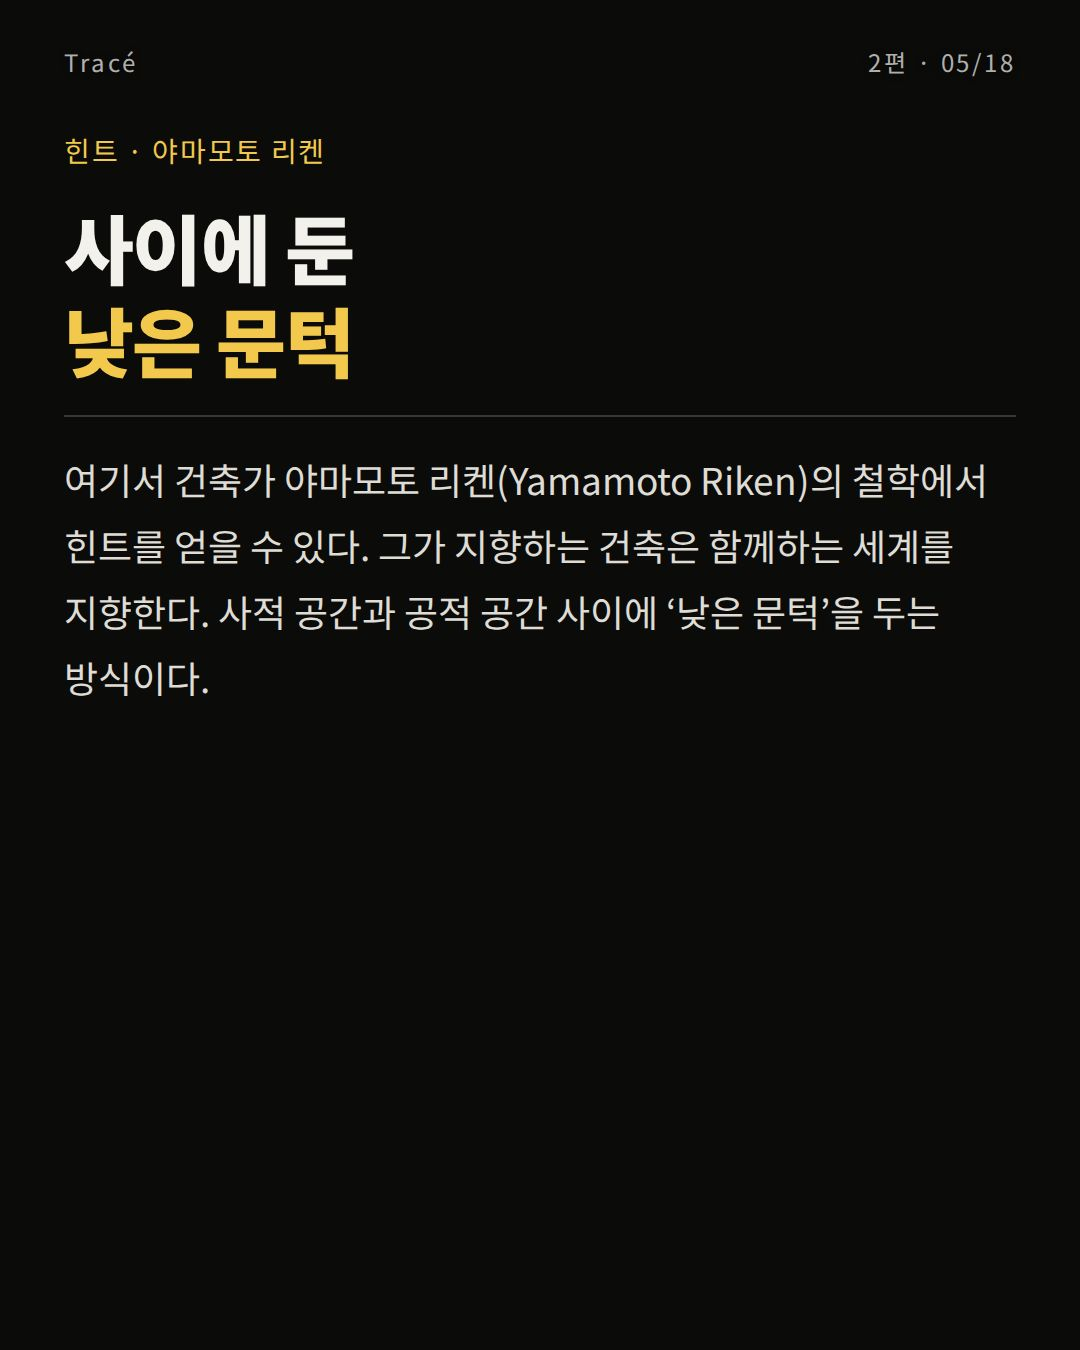
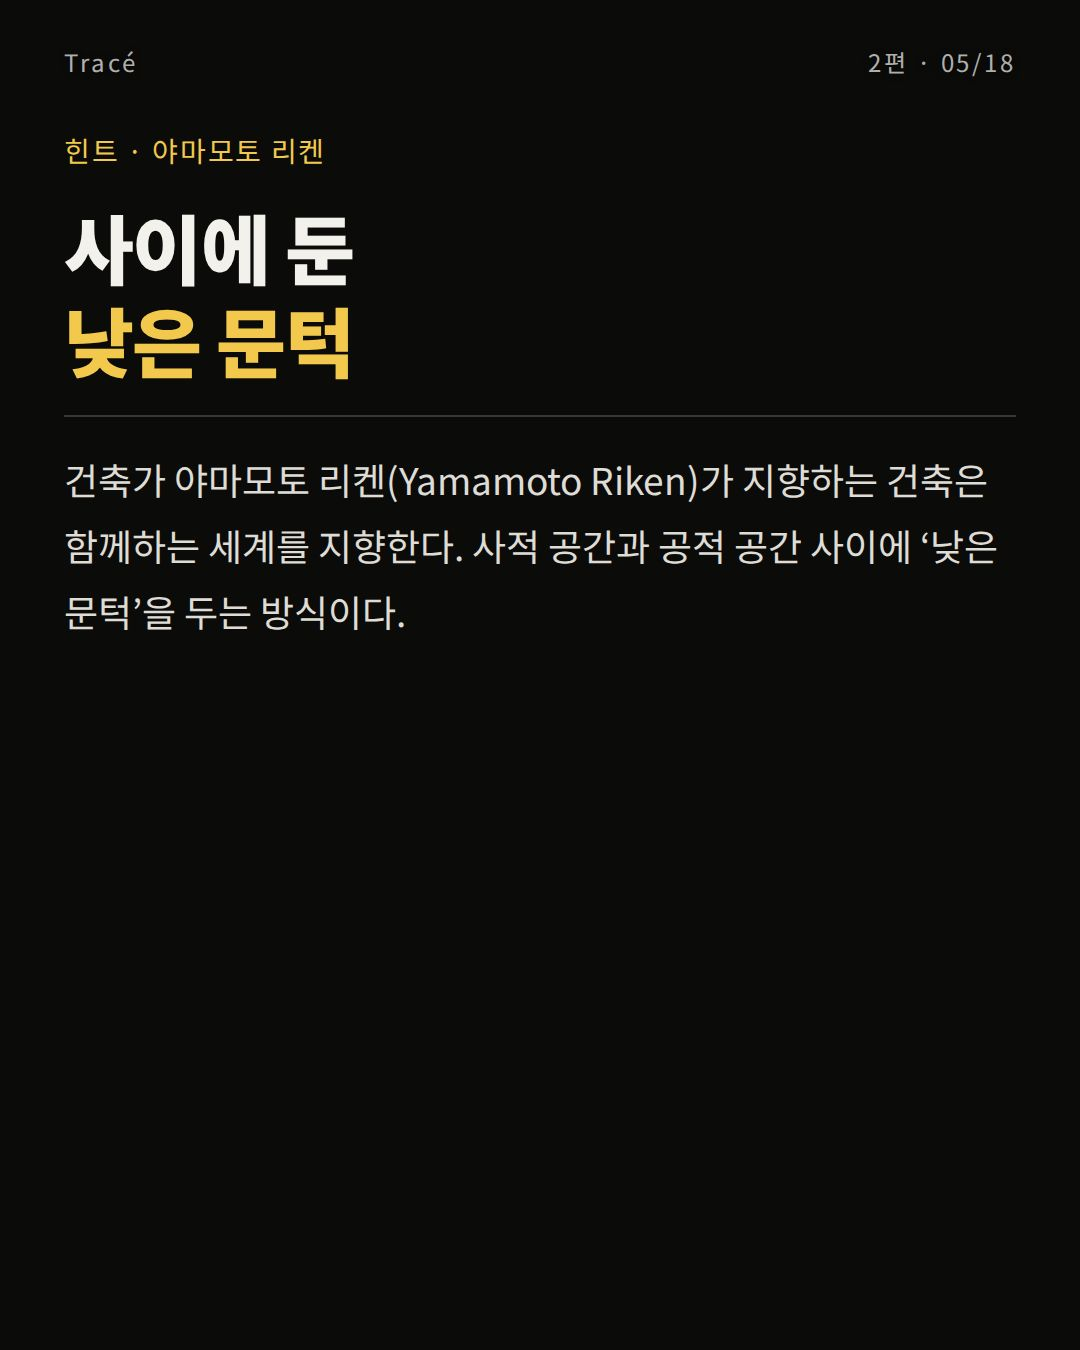
Essay text edits (Yamamoto Riken, De Carlo) in site and cards; keep mobile header on one line
Claude-Session: https://claude.ai/code/session_01SqK9Lxgur98TyfHNbRYJgn

Changed region(s): [[0.0611, 0.3422, 0.9167, 0.5289]]

diff --git a/trace-site/data.js b/trace-site/data.js
@@ -121,7 +121,7 @@ window.TRACE = {
    "ko": "문턱은 낮게",
    "def": "언제든 나만의 템포로 머물고 소통하며 움직일 수 있는 낮은 문턱의 내비게이션을 녹여낸다.",
    "original": [
-    "여기서 건축가 야마모토 리켄(Yamamoto Riken)의 철학에서 힌트를 얻을 수 있다. 그가 지향하는 건축은 함께하는 세계를 지향한다. 사적 공간과 공적 공간 사이에 ‘낮은 문턱’을 두는 방식이다.",
+    "건축가 야마모토 리켄(Yamamoto Riken)가 지향하는 건축은 함께하는 세계를 지향한다. 사적 공간과 공적 공간 사이에 ‘낮은 문턱’을 두는 방식이다.",
     "주택의 1층을 지역 사회에 열어두어 이웃과 느슨하게 부딪히게 만들고, 굳이 문을 열고 들어가지 않아도 서로의 존재를 승인하는 환대의 인터페이스. 그는 건축을 통해 ‘함께 사는 세계’의 관계성을 설계했다.",
     "공급자가 규정해 놓은 기능에 수동적으로 갇히지 않도록, 언제든 나만의 템포로 머물고 소통하며 움직일 수 있는 ‘낮은 문턱의 내비게이션’을 녹여내는 것이 기능주의 안에서 취해야 할 설계의 목적이자 의무다."
    ],
@@ -139,7 +139,7 @@ window.TRACE = {
    "ko": "완성하지 말고 함께 짓는다",
    "def": "화면은 단번에 찍어내는 결과물이 아니라 유저와 함께 자라는 과정이다. 참여가 더해질 때 화면은 장소가 된다.",
    "original": [
-    "이러한 설계는 이탈리아의 건축가 장카를로 데 카를로(Giancarlo De Carlo)가 주창한 ‘참여의 건축(Architecture of Participation)’과 맞닿아 있다. 데 카를로는 건축가가 일방적으로 권위를 가지고 완성된 공간을 하향식으로 주입하는 것에 반대했다.",
+    "이탈리아의 건축가 장카를로 데 카를로(Giancarlo De Carlo)가 주창한 참여의 건축(Architecture of Participation)에서는 건축가가 일방적으로 권위를 가지고 완성된 공간을 하향식으로 주입하는 것에 반대했다.",
     "대신 공간을 실제로 사용할 사람들의 목소리와 삶의 맥락을 설계 과정에 적극적으로 개입시켜, 건축을 공급자의 독점이 아닌 ‘사용자와의 공동 창작’으로 되돌려놓고자 했다.",
     "디지털 UX 역시 마찬가지다. 진정한 아키텍처는 기획자가 단번에 찍어내는 완성형 결과물이 아니라, 시간이 흐르며 유저와 상호작용하는 ‘과정(Process)’ 그 자체다. 응축된 인터페이스 위에 유저들의 주체적인 참여와 역동적인 맥락이 더해질 때, 화면은 단순한 숫자의 매트릭스를 넘어 비로소 살아 숨 쉬는 유기적인 ‘장소’로 자라난다."
    ],

diff --git a/trace-site/styles.css b/trace-site/styles.css
@@ -16,10 +16,11 @@ a:focus-visible,input:focus-visible,canvas:focus-visible{outline:2px solid var(-
 .dot{font:500 13px/1.4 var(--dot);letter-spacing:.08em;margin:0}
 
 /* 상단 */
-.top{display:flex;justify-content:space-between;align-items:baseline;gap:16px;max-width:1480px;margin:0 auto;padding-block:24px 56px}
+.top{display:flex;justify-content:space-between;align-items:center;gap:16px;max-width:1480px;margin:0 auto;padding-block:24px 56px}
 .brand{font:600 24px var(--serif);text-decoration:none;letter-spacing:-.01em}
 .brand span{font-weight:400;color:var(--muted)}
-.top nav{display:flex;gap:20px;font:500 13px var(--dot)}
+.top nav{display:flex;align-items:center;gap:20px;font:500 13px var(--dot);white-space:nowrap}
+.brand{white-space:nowrap}
 .top nav a{text-decoration:none;color:var(--muted)} .top nav a:hover{color:var(--ink)}
 .theme{font:500 13px var(--dot);color:var(--muted);background:none;border:1px solid var(--rule);border-radius:999px;padding:2px 12px;cursor:pointer}
 .theme:hover{color:var(--ink);border-color:var(--ink)}
@@ -101,6 +102,10 @@ a:focus-visible,input:focus-visible,canvas:focus-visible{outline:2px solid var(-
 }
 @media (max-width:700px){
   body{padding-inline:18px;font-size:17px}
+  .top{align-items:center;padding-block:18px 40px}
+  .brand{font-size:20px}
+  .top nav{gap:12px;font-size:12px}
+  .theme{padding:2px 9px;font-size:12px}
   .foot{margin-inline:-18px;padding-inline:18px}
   .grid{grid-template-columns:1fr;gap:40px}
   .law{grid-template-columns:72px minmax(0,1fr);gap:18px}

diff --git a/trace-site/index.html b/trace-site/index.html
@@ -15,7 +15,7 @@
 <link rel="preconnect" href="https://fonts.googleapis.com">
 <link rel="stylesheet" href="https://fonts.googleapis.com/css2?family=IBM+Plex+Mono:wght@400;500&family=Newsreader:ital,opsz,wght@0,6..72,400;0,6..72,600;1,6..72,400&family=Noto+Serif+KR:wght@400;700&display=swap">
 <script>try{const t=localStorage.getItem("trace-theme");if(t)document.documentElement.dataset.theme=t}catch(e){}</script>
-<link rel="stylesheet" href="styles.css?v=20261007d">
+<link rel="stylesheet" href="styles.css?v=20261007e">
 </head>
 <body>
 <header class="top">
@@ -54,9 +54,9 @@
   <p class="src">Essays · <a id="src-ux" href="#">The Essence of Spatial Design</a> · <a id="src-walk" href="#">Tracé Story · Chapter 1</a><br>The taegeuk motion is inspired by the flow-field work of <a href="https://www.tylerxhobbs.com" target="_blank" rel="noopener">Tyler Hobbs</a> (Fidenza).</p>
 </footer>
 
-<script src="data.js?v=20261007d"></script>
-<script src="icons.js?v=20261007d"></script>
-<script src="taegeuk.js?v=20261007d"></script>
-<script src="app.js?v=20261007d"></script>
+<script src="data.js?v=20261007e"></script>
+<script src="icons.js?v=20261007e"></script>
+<script src="taegeuk.js?v=20261007e"></script>
+<script src="app.js?v=20261007e"></script>
 </body>
 </html>
